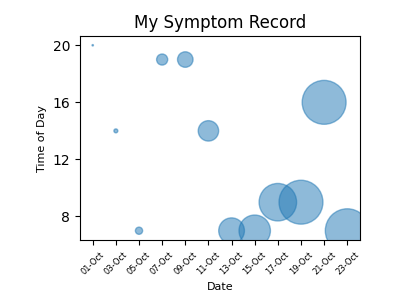
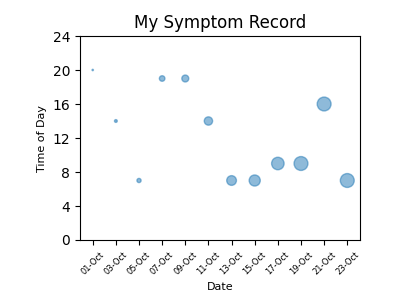
24hr yticks fixed on bubbleplot

diff --git a/Visualize.py b/Visualize.py
@@ -1,5 +1,5 @@
 import matplotlib.pyplot as plt
-import matplotlib.ticker as ticker
+# import matplotlib.ticker as ticker
 
 class Visualize():
 	
@@ -34,14 +34,15 @@ class Visualize():
 		plt.subplots_adjust(bottom = 0.2, left = 0.2)
 		plt.scatter(dates, times, s=scaled_pain, alpha=0.5)
 
-		ax.xaxis.set_major_locator(ticker.MultipleLocator(1)) 
-		ax.yaxis.set_major_locator(ticker.MultipleLocator(4))
+		ax.set_yticks([0, 4, 8, 12, 16, 20, 24])
+		# ax.xaxis.set_major_locator(ticker.MultipleLocator(1)) 
+		# ax.yaxis.set_major_locator(ticker.MultipleLocator(4))
 
 		plt.xticks(fontsize=6, rotation=45)
 		plt.xlabel('Date', fontsize=8)
 		plt.ylabel('Time of Day', fontsize=8, )
 		plt.title('My Symptom Record')
 		plt.savefig('static/images/bubbleplot.png')
-		plt.show()
+		# plt.show()
 		return "bubbleplot"
 
